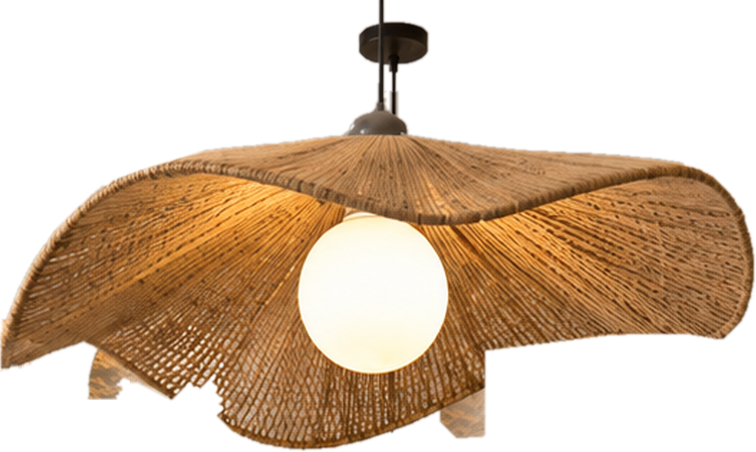
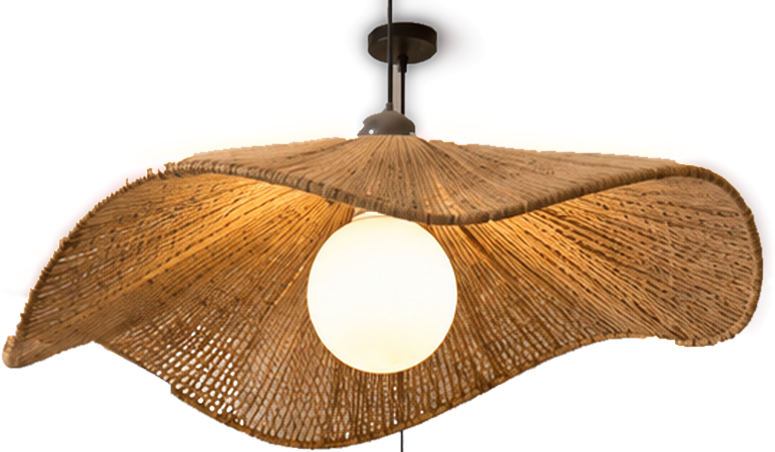
Rebuild hero lamp cutouts and wall repair
The main lamp cutout was missing pieces of its lower fringe (square
notches) and carried fragments of the wall, and the repaired background
behind the main and centre lamps had broken, misaligned arches and patch
seams.

The wall plate is now rebuilt from the original photo using the wall's
own arch geometry: each hidden arch column is copied from a clean column
elsewhere on the same wall, mapped through the measured perspective so
arches line up, with whole arches replaced so no seam runs through stone,
and lighting matched row by row. The lamp outlines are re-extracted
against that plate, keeping the full wavy fringe and see-through weave.
The lamps' soft shadow and glow on the ceiling travel with them, so the
settled frame still matches the original.

The centre lamp's cord now continues up behind the main shade, and the
centre lamp renders first, so the cord never shows a gap mid-descent.

Claude-Session: https://claude.ai/code/session_01JDGc2PaKqCEnt3oL8LiKwt

diff --git a/components/HeroInterior.tsx b/components/HeroInterior.tsx
@@ -34,30 +34,32 @@ type LampConfig = {
 // Bounding boxes measured directly from hero-interior-clean.png / the
 // original hero photo — the lamp PNGs are cropped to exactly these boxes,
 // so positioning them here reproduces the original composition precisely.
+// The centre lamp renders before the main one: its cord continues up behind
+// the main shade so it never shows a gap while the two travel different distances.
 const LAMPS: LampConfig[] = [
-  {
-    key: "main",
-    src: "/images/lamp-main.png",
-    alt: "",
-    left: 1095,
-    top: 0,
-    width: 756,
-    height: 452,
-    travelDesktop: 160,
-    travelMobile: 110,
-    delay: 0,
-  },
   {
     key: "centre",
     src: "/images/lamp-centre.png",
     alt: "",
     left: 1279,
-    top: 432,
-    width: 401,
-    height: 338,
+    top: 290,
+    width: 412,
+    height: 480,
     travelDesktop: 120,
     travelMobile: 85,
     delay: 0.15,
+  },
+  {
+    key: "main",
+    src: "/images/lamp-main.png",
+    alt: "",
+    left: 1086,
+    top: 0,
+    width: 775,
+    height: 452,
+    travelDesktop: 160,
+    travelMobile: 110,
+    delay: 0,
   },
   {
     key: "left",
